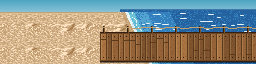
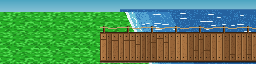
Pier land scene: Prairie grass instead of sand

diff --git a/CHANGELOG.md b/CHANGELOG.md
@@ -1,6 +1,7 @@
 # Changelog
 
 ## Unreleased
+- The pier land scene now has Prairie grass instead of sand (the pier is in the Prairie); art by the artist.
 - Dev panel > Connectors: the From and To pickers are gone; picking a connector walk now finds by itself a stage whose real trip walks those scenes the same way, starts him there and lands him in the stage on the other side (it says which in the console).
 - Crossing fights: the last frames of the winning spell no longer jump back to the unmirrored side when the fight ends; the scene un-mirrors only after the spell finishes.
 - Dev panel > Connectors: new From and To pickers. A connector walk can start in any stage and really arrives in the chosen one (zone, stage and background), instead of always going back to where he started; during the walk the game already counts him in the To zone, so a crossing fight is against that zone's enemies.

diff --git a/ideas.md b/ideas.md
@@ -225,3 +225,4 @@ Newest first; keep the last three, cut older ones to the archive.
 - 2026-11-24 (dev): dev connector walks got From/To stage pickers (devWalk in src/dev/tests.js); the old walk always ended in the start stage, which looked like a teleport back after a crossing fight. Untested in a browser (no node).
 - 2026-11-24 (dev): crossFight waits for run.spellUntil (set in spells.js for every spell) before un-mirroring, so the last spell frames stay mirrored. Untested in a browser.
 - 2026-11-24 (dev): dev connector walks pick From/To by themselves (travel.js stagesFor: first stage pair whose crossingSteps equals the walk; crossing() split into crossingSteps + planFight). Untested in a browser.
+- 2026-11-24 (dev): pier_land.png replaced by the artist's grass version (pier is in the Prairie); pier_end had no sand.
